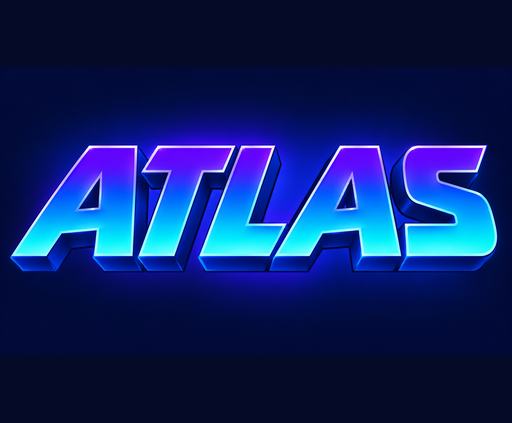
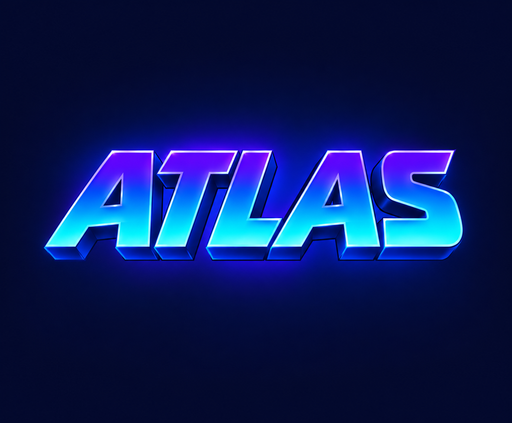
Improve TV focus visibility and Atlas artwork spacing

Changed region(s): [[0.0, 0.2766, 1.0, 0.7069]]

diff --git a/packages/app/src/views/Library/Library.module.less b/packages/app/src/views/Library/Library.module.less
@@ -375,12 +375,14 @@
 		outline: none;
 		z-index: 10;
 
+		// One quiet frame around artwork AND caption, including files without previews.
 		.itemCardInner {
-			transform: scale(1.05);
-		}
-
-		.poster {
-			border-color: var(--theme-focus-border-color, #ffffff);
+			transform: scale(1.03);
+			outline: 3px solid rgba(157, 177, 225, 0.9);
+			outline-offset: 2px;
+			border-radius: 8px;
+			background: rgba(115, 139, 194, 0.08);
+			box-shadow: 0 4px 18px rgba(0, 0, 0, 0.35);
 		}
 	}
 }

diff --git a/README.md b/README.md
@@ -2,12 +2,12 @@
 
 A personal-media-focused fork of [Moonfin Smart TV](https://github.com/Moonfin-Client/Smart-TV), based on upstream **2.10.0** (`e06c65eb17e7620fab5945bd1d2298ec17ce091a`). Licensed under **MPL-2.0**. Independent project, not an official Moonfin release.
 
-![Atlas](packages/build-tizen/tizen/icon-large.png)
+![Atlas](packages/build-tizen/tizen/icon-oblong.png)
 
 ## Что изменено
 
 - Оформление Atlas: прямоугольная плитка Samsung, светлый векторный логотип и движущийся скринсейвер.
-- Улучшенные русские подписи.
+- Улучшенные русские подписи и спокойная рамка выбора вокруг папок и файлов, в том числе без превью.
 - В библиотеках Jellyfin типа «Домашние видео и фото» (`homevideos`): запуск ролика одним нажатием, очередь остальных видео текущей папки, возврат в ту же папку, крупные подписи.
 - Для домашнего видео на Tizen: предпочтение потокового HLS вместо прямого MP4/MOV; видео может копироваться без перекодирования, если сервер и формат позволяют.
 - Учёт поворота телефона при настройке декодера и пропорций вертикального транскодированного видео на старых Samsung.
@@ -24,7 +24,7 @@ node scripts/test-atlas-folders.cjs
 npm run build:tizen:oblong -- --skip-tizen-cli
 ```
 
-The result is an **unsigned** `Atlas_Tizen_Oblong_v2.11.0.wgt` in the repository root. The build runs the upstream lint gate and Tizen compatibility transforms. Sign locally with your own compatible Tizen author/distributor certificates and install through the Samsung developer tools. No certificates or device credentials are shipped here. An unsigned package alone cannot be installed on a retail TV.
+The result is an **unsigned** `Atlas_Tizen_Oblong_v2.11.1.wgt` in the repository root. The build runs the upstream lint gate and Tizen compatibility transforms. Sign locally with your own compatible Tizen author/distributor certificates and install through the Samsung developer tools. No certificates or device credentials are shipped here. An unsigned package alone cannot be installed on a retail TV.
 
 This fork intentionally retains the Tizen application/package IDs and existing `moonfin_*` storage keys for an in-place upgrade of an existing Moonfin installation signed with the **same author certificate**. Atlas and Moonfin therefore cannot coexist under these IDs. Do not uninstall your working client just to change the branding; keep a signed rollback package and a private settings backup outside this repository.
 
@@ -33,6 +33,8 @@ This fork intentionally retains the Tizen application/package IDs and existing `
 Add the existing media directory to a Jellyfin **Home videos and photos** library, then open it in Atlas. Folder view defaults on for that library type. Select a video to play it and subsequent video files in that folder, in its displayed sort order. Enable automatic playback in settings; the optional early “Next Up” action can be disabled for short clips. Back returns to the originating folder. Explicit playlists take priority. Subfolders, photos and metadata-only files are not silently added to the queue.
 
 Home-video detection happens at runtime from the library type; no library IDs or private paths are compiled into the app. Other movie/series libraries retain the upstream flow.
+
+Optional [library covers](assets/library-covers) provide large Russian titles and the Atlas wordmark. Set a PNG as the corresponding library’s primary image in Jellyfin; editable SVG sources are included. These images do not change library paths or media files.
 
 ## Support and limits
 

diff --git a/assets/branding/launcher-padded-prompt.md b/assets/branding/launcher-padded-prompt.md
@@ -1,0 +1,10 @@
+# Launcher spacing revision
+
+Generated with built-in image_gen, editing the previous Atlas Oblong icon.
+
+Prompt: Preserve the same ATLAS letters, italic shapes, blue/cyan/violet gradient,
+beveled 3D extrusion and restrained glow. Reduce the complete wordmark uniformly
+to about 80% of its previous width and height, centered, with generous equal side
+margins. Keep it large and readable. No separate A or new ornaments. Use a seamless
+very dark navy background without the previous horizontal letterbox boundaries.
+Target canvas aspect ratio 512:423. Output flat launcher artwork, not a mockup.
